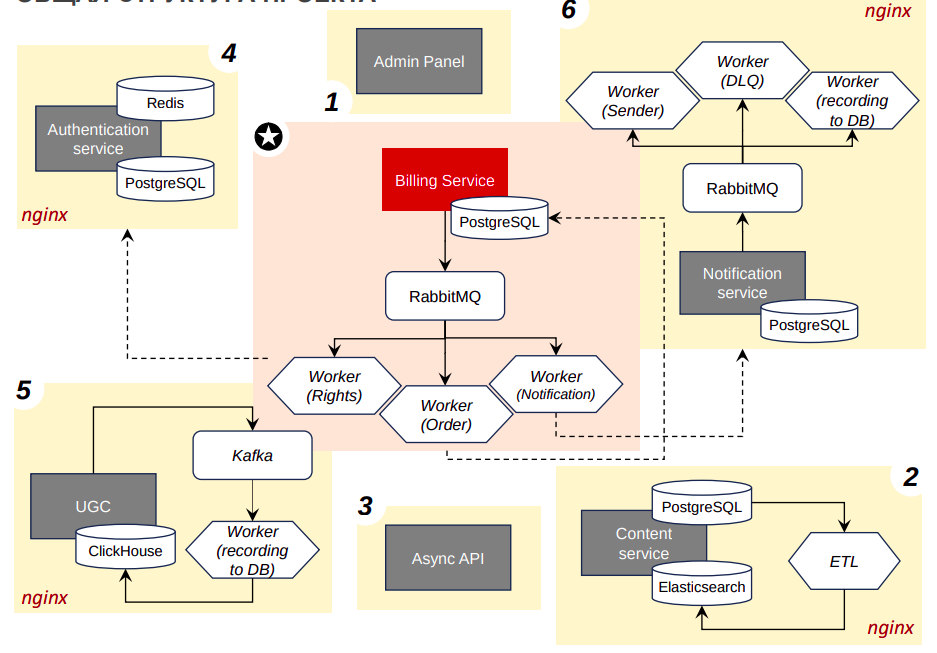
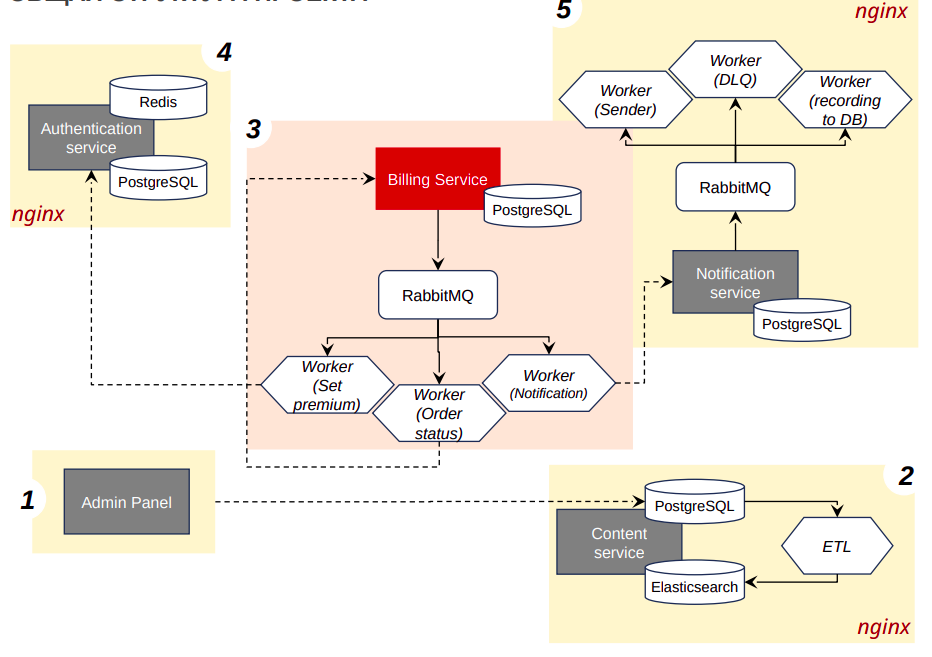
Update README.

Changed region(s): [[0.0, 0.0, 0.9957, 1.0], [0.3423, 0.0, 0.5601, 0.1838], [0.0622, 0.0, 0.0933, 0.0306]]

diff --git a/README.md b/README.md
@@ -1,18 +1,27 @@
-## Graduate work: Online cinema with microservice architecture
-
-### Github URL
-https://github.com/tema1998/graduate_work
+## Graduate work of Yandex middle python-developer course.
 
 ### Team:
 [Артем](https://github.com/tema1998) <br/> 
 [Николай](https://github.com/NikolaySolop)
 
+### In project were used
+* ![Docker][Docker]
+* ![Fastapi][Fastapi]
+* ![Django][Django]
+* ![PostgreSQL][PostgreSQL]
+* ![Redis][Redis]
+* ![RabbitMQ][RabbitMQ]
+* ![Elastic][Elastic]
+* ![Nginx][Nginx]
+* ![Yookassa][Yookassa]
+
+
 ### Main services
-Admin_service - Content management.<br/>
-Auth_service - Registration and authorization of users in other services.<br/>
-Content_service - Content delivery.<br/>
-Billing_service - Content payment service.<br/>
-Notification_service - Service for notifications about new content, payment status and mailing management.
+Admin_service(Django) - Content management.<br/>
+Auth_service(FastAPI) - Registration and authorization of users in other services.<br/>
+Content_service(FastAPI) - Content delivery.<br/>
+Billing_service(FastAPI) - Content payment service.<br/>
+Notification_service(FastAPI) - Service for notifications about new content, payment status and mailing management.
 
 ### Supporting services
 Billing_rabbitmq_init - Initialization of billing broker's queues.<br/>
@@ -23,9 +32,39 @@ Notification_consumer_recorder_service - Worker to record message's status to DB
 Nginx - Web server software used for reverse proxy, load balancing, and caching. <br/>
 Base_config - Main project settings.<br/>
 
-### Scheme
+### Scheme of services
 <image src="readme/scheme.png" alt="Scheme"> </image>
 
 ### Environment
-Create .env file using .env.example. Set your parameters.
+Create .env file using .env.example.
+Create account yookassa, set shop_id, secret_key. Set response URL in Yookassa settings to Billing service.
+Create smtp account(google, yandex and etc.), set SMTP(host, port, email, pass)
+
+### How to test Yookassa response without deploying
+Ngrok  to expose a local development server to the Internet. Install Ngrok, set up Ngrok token.
+```
+ngrok http http://<billing-service-url>
+```
+
+### Run
+```
+docker compose up --build
+```
+
+### OPENAPI URL
+```
+docker compose up --build
+```
+
+
+
+[Docker]: https://img.shields.io/badge/docker-000000?style=for-the-badge&logo=docker&logoColor=blue
+[FastAPI]: https://img.shields.io/badge/fastapi-000000?style=for-the-badge&logo=fastapi&logoColor=green
+[Django]: https://img.shields.io/badge/django-000000?style=for-the-badge&logo=django&logoColor=white
+[PostgreSQL]: https://img.shields.io/badge/postgresql-000000?style=for-the-badge&logo=postgresql&logoColor=blue
+[Redis]: https://img.shields.io/badge/redis-000000?style=for-the-badge&logo=redis&logoColor=red
+[Nginx]: https://img.shields.io/badge/nginx-000000?style=for-the-badge&logo=nginx&logoColor=green
+[RabbitMQ]: https://img.shields.io/badge/rabbitmq-000000?style=for-the-badge&logo=rabbitmq&logoColor=orange
+[Elastic]: https://img.shields.io/badge/elasticsearch-black?style=for-the-badge&logo=elasticsearch&logoColor=white
+[Yookassa]: https://img.shields.io/badge/yookassa-black?style=for-the-badge&logo=yookassa&logoColor=white
 
